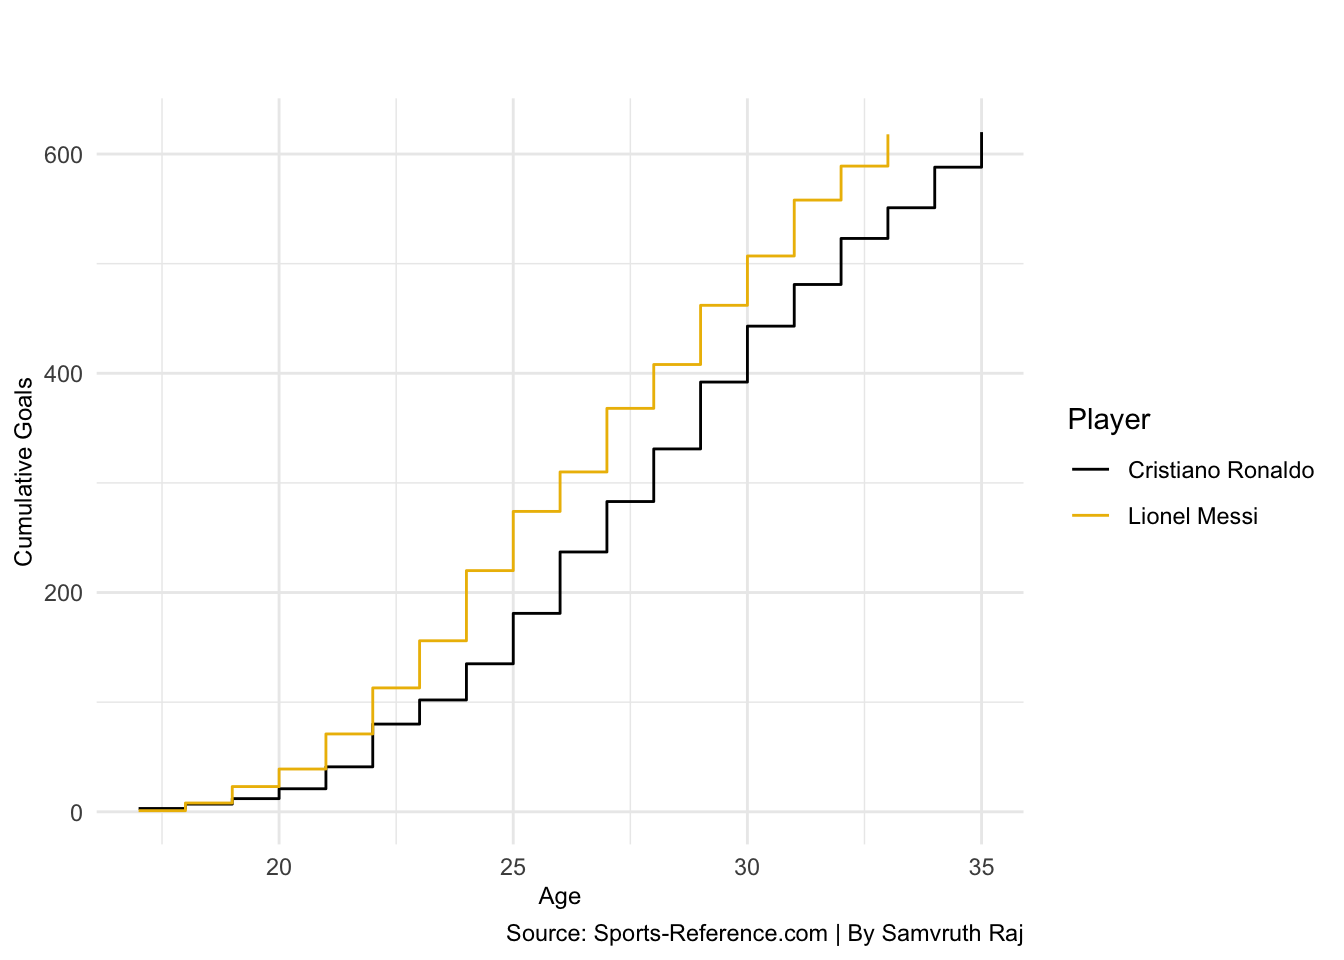
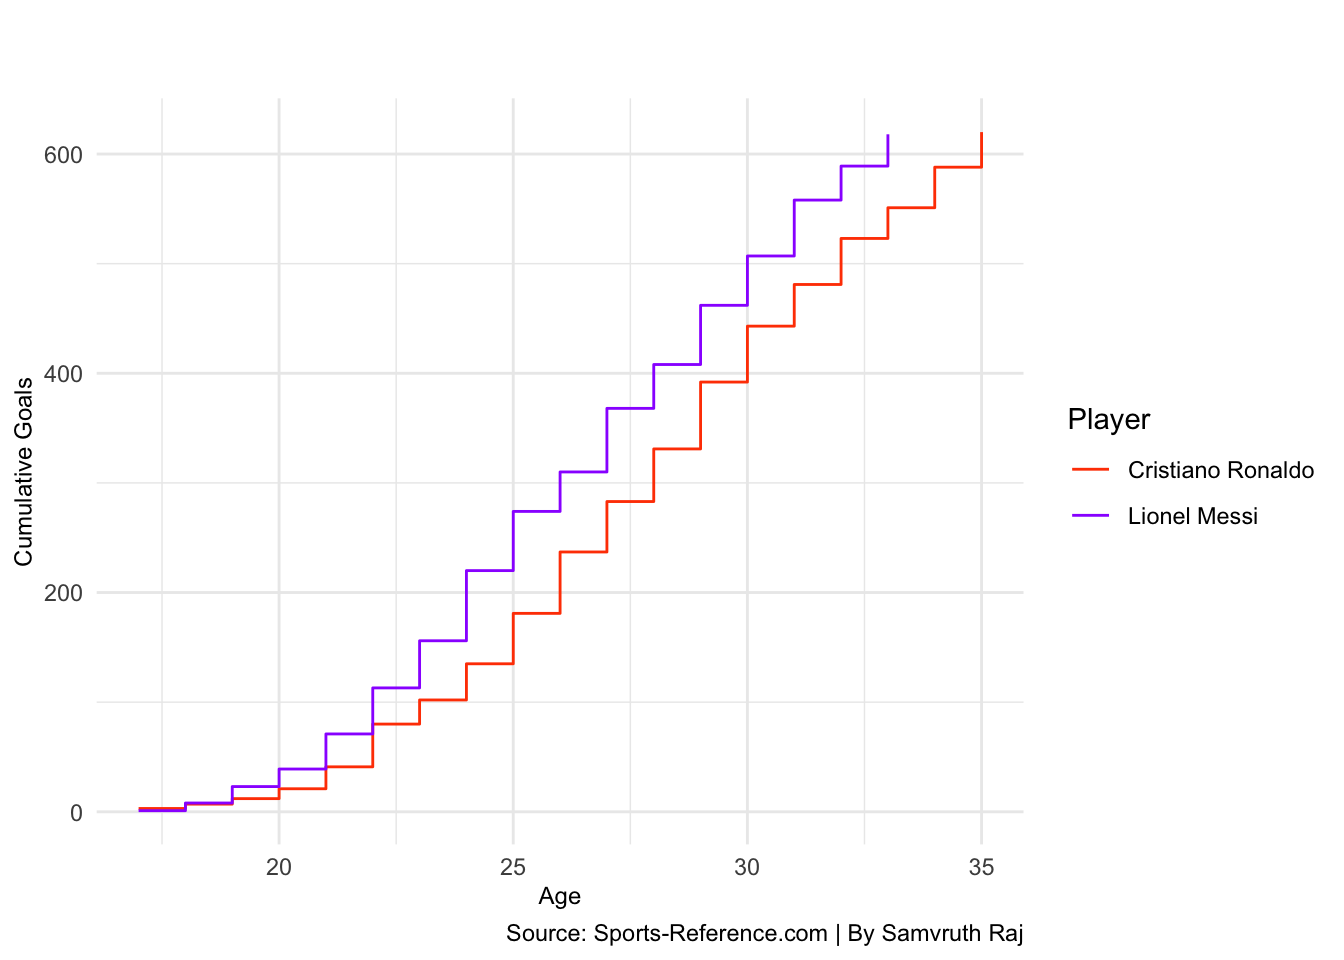
Fix.

diff --git a/2021/04/19/cristiano-ronaldo-vs-lionel-messi-greatness-personified/index.html b/2021/04/19/cristiano-ronaldo-vs-lionel-messi-greatness-personified/index.html
@@ -6,8 +6,8 @@
 <meta name="generator" content="Hugo 0.81.0" />
 
 
-<title>Cristiano Ronaldo vs Lionel Messi, Greatness Personified1 - Samvruth&#39;s Blog</title>
-<meta property="og:title" content="Cristiano Ronaldo vs Lionel Messi, Greatness Personified1 - Samvruth&#39;s Blog">
+<title>Cristiano Ronaldo vs Lionel Messi, Greatness Personified. - Samvruth&#39;s Blog</title>
+<meta property="og:title" content="Cristiano Ronaldo vs Lionel Messi, Greatness Personified. - Samvruth&#39;s Blog">
 
 
   <link href='/favicon.ico' rel='icon' type='image/x-icon'/>
@@ -62,10 +62,10 @@
 
   <article class="article">
     
-    <span class="article-duration">2 min read</span>
+    <span class="article-duration">3 min read</span>
     
 
-    <h1 class="article-title">Cristiano Ronaldo vs Lionel Messi, Greatness Personified1</h1>
+    <h1 class="article-title">Cristiano Ronaldo vs Lionel Messi, Greatness Personified.</h1>
 
     
     <span class="article-date">2021-04-19</span>
@@ -76,6 +76,7 @@
 <script src="/2021/04/19/cristiano-ronaldo-vs-lionel-messi-greatness-personified/index_files/header-attrs/header-attrs.js"></script>
 
 
+<p>Before the start of the 2003/2004 season, Manchester United signed Cristiano Ronaldo, at the time the most expensive teenager in English Football history,</p>
 <pre class="r"><code>library(tidyverse)
 library(scales)
 library(ggrepel)
@@ -97,12 +98,12 @@ library(waffle)</code></pre>
        title=&quot;&quot;, 
        subtitle=&quot;&quot;, 
        caption=&quot;Source: Sports-Reference.com | By Samvruth Raj&quot;) +  
-  scale_color_manual(values = c(&quot;black&quot;, &quot;#EDBB00&quot;)) +
+  scale_color_manual(values = c(&quot;orangered&quot;, &quot;purple1&quot;)) +
   theme_minimal() + 
   theme(
     plot.title = element_text(size = 12, face = &quot;bold&quot;),
     axis.title = element_text(size = 9), 
-    plot.subtitle = element_text(size=10), 
+    plot.subtitle = element_text(size=10)
     )</code></pre>
 <p><img src="/2021/04/19/cristiano-ronaldo-vs-lionel-messi-greatness-personified/index_files/figure-html/unnamed-chunk-4-1.png" width="672" /></p>
 <pre class="r"><code>Comp &lt;- Best %&gt;%

diff --git a/categories/football/index.html b/categories/football/index.html
@@ -65,7 +65,7 @@
     <h2 class="archive-title">2021</h2>
     
     <article class="archive-item">
-      <a href="/2021/04/19/cristiano-ronaldo-vs-lionel-messi-greatness-personified/" class="archive-item-link">Cristiano Ronaldo vs Lionel Messi, Greatness Personified1</a>
+      <a href="/2021/04/19/cristiano-ronaldo-vs-lionel-messi-greatness-personified/" class="archive-item-link">Cristiano Ronaldo vs Lionel Messi, Greatness Personified.</a>
       <span class="archive-item-date">
         2021-04-19
       </span>

diff --git a/index.html b/index.html
@@ -68,7 +68,7 @@
     <h2 class="archive-title">2021</h2>
     
     <article class="archive-item">
-      <a href="/2021/04/19/cristiano-ronaldo-vs-lionel-messi-greatness-personified/" class="archive-item-link">Cristiano Ronaldo vs Lionel Messi, Greatness Personified1</a>
+      <a href="/2021/04/19/cristiano-ronaldo-vs-lionel-messi-greatness-personified/" class="archive-item-link">Cristiano Ronaldo vs Lionel Messi, Greatness Personified.</a>
       <span class="archive-item-date">
         2021-04-19
       </span>

diff --git a/post/index.html b/post/index.html
@@ -65,7 +65,7 @@
     <h2 class="archive-title">2021</h2>
     
     <article class="archive-item">
-      <a href="/2021/04/19/cristiano-ronaldo-vs-lionel-messi-greatness-personified/" class="archive-item-link">Cristiano Ronaldo vs Lionel Messi, Greatness Personified1</a>
+      <a href="/2021/04/19/cristiano-ronaldo-vs-lionel-messi-greatness-personified/" class="archive-item-link">Cristiano Ronaldo vs Lionel Messi, Greatness Personified.</a>
       <span class="archive-item-date">
         2021-04-19
       </span>
